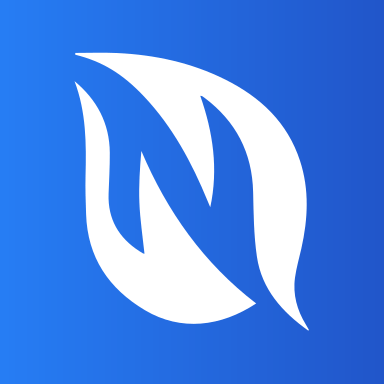
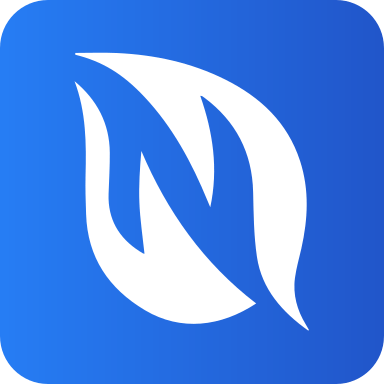
Update PWA installation button implementation

diff --git a/scripts/generate-icons.js b/scripts/generate-icons.js
@@ -1,4 +1,4 @@
-// scripts/generate-icons.js
+// scripts/generate-icons.js - WITH ROUNDED CORNERS
 const sharp = require('sharp');
 const fs = require('fs');
 const path = require('path');
@@ -34,23 +34,49 @@ const faviconSizes = [
 ];
 
 /**
- * Generate PNG icons from SVG source with colored background
+ * Create rounded corners mask as SVG overlay
  */
-async function generateIconsFromSVG(svgPath, sizes, suffix = '') {
+function createRoundedMask(size, borderRadius) {
+  return Buffer.from(`
+    <svg width="${size}" height="${size}" xmlns="http://www.w3.org/2000/svg">
+      <rect width="${size}" height="${size}" rx="${borderRadius}" ry="${borderRadius}" fill="white"/>
+    </svg>
+  `);
+}
+
+/**
+ * Generate PNG icons from SVG source with colored background and rounded corners
+ */
+async function generateIconsFromSVG(svgPath, sizes, suffix = '', withRoundedCorners = true) {
   for (const { size, name } of sizes) {
     const outputName = suffix ? name.replace('.png', `-${suffix}.png`) : name;
     const outputPath = path.join(outputDir, outputName);
     
-    // CRITICAL FIX: Use blue gradient background instead of transparent
-    await sharp(svgPath)
+    // Calculate border radius (12.5% of size for nice rounded corners)
+    const borderRadius = Math.floor(size * 0.125);
+    
+    // Create base image with blue background
+    let image = sharp(svgPath)
       .resize(size, size, {
         fit: 'contain',
         background: { r: 38, g: 125, b: 244, alpha: 1 } // Blue background #267DF4
-      })
+      });
+    
+    // Apply rounded corners if requested
+    if (withRoundedCorners) {
+      const roundedMask = createRoundedMask(size, borderRadius);
+      image = image.composite([{
+        input: roundedMask,
+        blend: 'dest-in'
+      }]);
+    }
+    
+    await image
       .png({ quality: 100, compressionLevel: 9 })
       .toFile(outputPath);
     
-    console.log(`   ✓ ${outputName} (${size}x${size}px)`);
+    const roundedText = withRoundedCorners ? ' with rounded corners' : '';
+    console.log(`   ✓ ${outputName} (${size}x${size}px${roundedText})`);
   }
 }
 
@@ -65,6 +91,10 @@ async function generateMaskableIcons(svgPath, sizes) {
     // Maskable icons need padding (safe zone)
     const logoSize = Math.floor(size * 0.6); // 60% of icon size for safe zone
     const padding = Math.floor((size - logoSize) / 2);
+    const borderRadius = Math.floor(size * 0.125); // Rounded corners
+    
+    // Create base with blue background and rounded corners
+    const roundedMask = createRoundedMask(size, borderRadius);
     
     await sharp({
       create: {
@@ -74,20 +104,26 @@ async function generateMaskableIcons(svgPath, sizes) {
         background: { r: 38, g: 125, b: 244, alpha: 1 }
       }
     })
-    .composite([{
-      input: await sharp(svgPath)
-        .resize(logoSize, logoSize, {
-          fit: 'contain',
-          background: { r: 0, g: 0, b: 0, alpha: 0 }
-        })
-        .toBuffer(),
-      top: padding,
-      left: padding
-    }])
+    .composite([
+      {
+        input: await sharp(svgPath)
+          .resize(logoSize, logoSize, {
+            fit: 'contain',
+            background: { r: 0, g: 0, b: 0, alpha: 0 }
+          })
+          .toBuffer(),
+        top: padding,
+        left: padding
+      },
+      {
+        input: roundedMask,
+        blend: 'dest-in'
+      }
+    ])
     .png({ quality: 100, compressionLevel: 9 })
     .toFile(outputPath);
     
-    console.log(`   ✓ ${outputName} (${size}x${size}px - maskable)`);
+    console.log(`   ✓ ${outputName} (${size}x${size}px - maskable with rounded corners)`);
   }
 }
 
@@ -95,7 +131,7 @@ async function generateMaskableIcons(svgPath, sizes) {
  * Generate favicon.ico (multi-size ICO file)
  */
 async function generateFavicon(svgPath) {
-  // Generate 32x32 as main favicon with transparent background
+  // Generate 32x32 as main favicon with transparent background (no rounded corners for favicon)
   const faviconPath = path.join(outputDir, 'favicon.ico');
   
   await sharp(svgPath)
@@ -122,7 +158,7 @@ function copySVGFavicon(svgPath) {
  * Main generation function
  */
 async function generateAllIcons() {
-  console.log('🎨 Génération des icônes PWA HD depuis SVG...\n');
+  console.log('🎨 Génération des icônes PWA HD depuis SVG avec coins arrondis...\n');
 
   // Verify source files exist
   if (!fs.existsSync(lightLogoSVG)) {
@@ -140,67 +176,89 @@ async function generateAllIcons() {
   }
 
   try {
-    // Generate PWA icons from light mode SVG (with blue background)
-    console.log('📱 Génération des icônes PWA (fond bleu):');
-    await generateIconsFromSVG(lightLogoSVG, pwaIconSizes);
+    // Generate PWA icons from light mode SVG (with blue background + rounded corners)
+    console.log('📱 Génération des icônes PWA (fond bleu + coins arrondis):');
+    await generateIconsFromSVG(lightLogoSVG, pwaIconSizes, '', true);
 
-    // Generate maskable icons for Android (with padding + blue background)
-    console.log('\n📱 Génération des icônes maskables (Android):');
+    // Generate maskable icons for Android (with padding + blue background + rounded corners)
+    console.log('\n📱 Génération des icônes maskables (Android + coins arrondis):');
     await generateMaskableIcons(lightLogoSVG, [
       { size: 192, name: 'icon-192x192.png' },
       { size: 512, name: 'icon-512x512.png' }
     ]);
 
-    // Generate Apple Touch Icons (using light mode with white background)
-    console.log('\n🍎 Génération des icônes Apple:');
+    // Generate Apple Touch Icons (using light mode with white background + rounded corners)
+    console.log('\n🍎 Génération des icônes Apple (coins arrondis):');
     for (const { size, name } of appleIconSizes) {
       const outputPath = path.join(outputDir, name);
+      const borderRadius = Math.floor(size * 0.125);
+      const roundedMask = createRoundedMask(size, borderRadius);
       
       await sharp(lightLogoSVG)
         .resize(size, size, {
           fit: 'contain',
           background: { r: 255, g: 255, b: 255, alpha: 1 } // White for Apple
         })
+        .composite([{
+          input: roundedMask,
+          blend: 'dest-in'
+        }])
         .png({ quality: 100, compressionLevel: 9 })
         .toFile(outputPath);
       
-      console.log(`   ✓ ${name} (${size}x${size}px)`);
+      console.log(`   ✓ ${name} (${size}x${size}px with rounded corners)`);
     }
 
-    // Generate Favicons (using light mode SVG - transparent)
-    console.log('\n🌐 Génération des favicons:');
-    await generateIconsFromSVG(lightLogoSVG, faviconSizes);
+    // Generate Favicons (using light mode SVG - transparent, NO rounded corners)
+    console.log('\n🌐 Génération des favicons (sans coins arrondis):');
+    await generateIconsFromSVG(lightLogoSVG, faviconSizes, '', false);
     await generateFavicon(lightLogoSVG);
     copySVGFavicon(lightLogoSVG);
 
-    // Generate screenshots for PWA manifest
-    console.log('\n📸 Génération des screenshots PWA:');
+    // Generate screenshots for PWA manifest (with rounded corners)
+    console.log('\n📸 Génération des screenshots PWA (coins arrondis):');
     
     // Screenshot 1 - Desktop
+    const wideSize = { width: 1280, height: 720 };
+    const wideBorderRadius = Math.floor(Math.min(wideSize.width, wideSize.height) * 0.02); // 2% radius
+    const wideRoundedMask = createRoundedMask(wideSize.width, wideBorderRadius);
+    
     await sharp(lightLogoSVG)
-      .resize(1280, 720, {
+      .resize(wideSize.width, wideSize.height, {
         fit: 'contain',
         background: { r: 38, g: 125, b: 244, alpha: 1 }
       })
+      .composite([{
+        input: wideRoundedMask,
+        blend: 'dest-in'
+      }])
       .png({ quality: 90 })
       .toFile(path.join(outputDir, 'screenshot-wide.png'));
-    console.log('   ✓ screenshot-wide.png (1280x720px)');
+    console.log('   ✓ screenshot-wide.png (1280x720px with rounded corners)');
 
     // Screenshot 2 - Mobile portrait
+    const narrowSize = { width: 750, height: 1334 };
+    const narrowBorderRadius = Math.floor(Math.min(narrowSize.width, narrowSize.height) * 0.03); // 3% radius
+    const narrowRoundedMask = createRoundedMask(narrowSize.width, narrowBorderRadius);
+    
     await sharp(lightLogoSVG)
-      .resize(750, 1334, {
+      .resize(narrowSize.width, narrowSize.height, {
         fit: 'contain',
         background: { r: 38, g: 125, b: 244, alpha: 1 }
       })
+      .composite([{
+        input: narrowRoundedMask,
+        blend: 'dest-in'
+      }])
       .png({ quality: 90 })
       .toFile(path.join(outputDir, 'screenshot-narrow.png'));
-    console.log('   ✓ screenshot-narrow.png (750x1334px)');
+    console.log('   ✓ screenshot-narrow.png (750x1334px with rounded corners)');
 
-    console.log('\n✅ Toutes les icônes HD ont été générées avec succès!');
+    console.log('\n✅ Toutes les icônes HD ont été générées avec succès avec coins arrondis!');
     console.log(`📂 Dossier de sortie: ${path.resolve(outputDir)}`);
     
     console.log('\n📝 Prochaines étapes:');
-    console.log('   1. Les icônes ont maintenant un fond bleu #267DF4');
+    console.log('   1. Les icônes ont maintenant un fond bleu #267DF4 avec coins arrondis');
     console.log('   2. Les icônes maskables ont été générées pour Android');
     console.log('   3. Rebuild l\'app: npm run build');
     console.log('   4. Testez l\'installation PWA sur mobile');

diff --git a/components/layout/TopBar.tsx b/components/layout/TopBar.tsx
@@ -5,7 +5,7 @@ import { useState, useEffect } from 'react'
 import Link from 'next/link'
 import Image from 'next/image'
 import { useSession, signOut } from 'next-auth/react'
-import { Bell, Search, Menu, MessageSquare, User, Settings, LogOut, X, CheckCircle, BellRing } from 'lucide-react'
+import { Bell, Search, Menu, MessageSquare, User, Settings, LogOut, X, CheckCircle } from 'lucide-react'
 import { Button } from '@/components/ui/button'
 import { Input } from '@/components/ui/input'
 import {
@@ -20,7 +20,6 @@ import { Avatar, AvatarFallback, AvatarImage } from '@/components/ui/avatar'
 import { AnimatePresence, motion } from 'framer-motion'
 import { Activity } from '@prisma/client'
 import { getRelativeTime } from '@/lib/utils'
-import PWAInstallButton from './PWAInstallButton'; 
 import { ThemeToggle } from '@/components/ThemeToggle'
 
 interface TopBarProps {
@@ -28,12 +27,6 @@ interface TopBarProps {
 }
 
 type ActivityWithUser = Activity & { user: { name: string | null; image: string | null }};
-
-const handleEnableNotifications = () => {
-    if (typeof window !== 'undefined' && (window as any).enablePushNotifications) {
-        (window as any).enablePushNotifications();
-    }
-};
 
 export function TopBar({ onMenuClick }: TopBarProps) {
   const { data: session } = useSession();
@@ -77,7 +70,7 @@ export function TopBar({ onMenuClick }: TopBarProps) {
             <Search className="w-5 h-5" />
         </Button>
         <Link href="/chat"><Button variant="ghost" size="icon"><MessageSquare className="w-5 h-5" /></Button></Link>
-        <PWAInstallButton />
+        <ThemeToggle />
         <DropdownMenu onOpenChange={(open) => !open && setShowNotificationDot(false)}>
           <DropdownMenuTrigger asChild>
             <Button variant="ghost" size="icon" className="relative">
@@ -110,43 +103,31 @@ export function TopBar({ onMenuClick }: TopBarProps) {
                          <Avatar className="h-9 w-9">
                             <AvatarImage src={session.user.image || ''} alt={session.user.name || 'Utilisateur'} />
                             <AvatarFallback>{session.user.name ? session.user.name.charAt(0).toUpperCase() : 'U'}</AvatarFallback>
-                         </Avatar>
+                        </Avatar>
                     </div>
                 </DropdownMenuTrigger>
-                <DropdownMenuContent className="w-64" align="end">
-                    <DropdownMenuLabel className="font-normal">
-                        <div className="flex flex-col space-y-1">
-                            <p className="text-sm font-medium leading-none">{session.user.name || 'Utilisateur'}</p>
-                            <p className="text-xs leading-none text-muted-foreground">
-                                {session.user.email}
-                            </p>
+                <DropdownMenuContent align="end" className="w-48">
+                    <DropdownMenuLabel>
+                        <div className="flex flex-col">
+                            <span className="text-sm font-medium">{session.user.name || 'Utilisateur'}</span>
+                            <span className="text-xs text-muted-foreground">{session.user.email}</span>
                         </div>
                     </DropdownMenuLabel>
                     <DropdownMenuSeparator />
                     <DropdownMenuItem asChild>
-                        <Link href="/profile" className="flex items-center gap-2">
+                        <Link href="/settings/profile" className="flex items-center gap-2 cursor-pointer">
                             <User className="w-4 h-4" />
-                            Mon profil
+                            Profil
                         </Link>
                     </DropdownMenuItem>
                     <DropdownMenuItem asChild>
-                        <Link href="/settings" className="flex items-center gap-2">
+                        <Link href="/settings" className="flex items-center gap-2 cursor-pointer">
                             <Settings className="w-4 h-4" />
                             Paramètres
                         </Link>
                     </DropdownMenuItem>
                     <DropdownMenuSeparator />
-                    {/* Theme Toggle Integration */}
-                    <div className="p-1">
-                        <ThemeToggle />
-                    </div>
-                    <DropdownMenuSeparator />
-                    <DropdownMenuItem onClick={handleEnableNotifications} className="flex items-center gap-2">
-                        <BellRing className="w-4 h-4" />
-                        Activer les notifications
-                    </DropdownMenuItem>
-                    <DropdownMenuSeparator />
-                    <DropdownMenuItem onClick={() => signOut()} className="flex items-center gap-2 text-red-600 dark:text-red-400">
+                    <DropdownMenuItem onClick={() => signOut({ callbackUrl: '/' })} className="flex items-center gap-2 cursor-pointer text-red-600">
                         <LogOut className="w-4 h-4" />
                         Se déconnecter
                     </DropdownMenuItem>

diff --git a/app/layout.tsx b/app/layout.tsx
@@ -1,8 +1,9 @@
-// app/layout.tsx - ENHANCED WITH SVG FAVICON
+// app/layout.tsx - ENHANCED WITH SVG FAVICON + PWA INSTALLER
 import './globals.css'
 import { Poppins } from 'next/font/google'
 import { Providers } from '@/components/providers/Providers'
 import SplashScreen from '@/components/SplashScreen'
+import PWAInstaller from '@/components/PWAInstaller'
 import { Metadata, Viewport } from 'next'
 
 const poppins = Poppins({ 
@@ -83,15 +84,18 @@ export default function RootLayout({
                 const theme = localStorage.getItem('enarva-theme') || 'light';
                 const systemTheme = window.matchMedia('(prefers-color-scheme: dark)').matches ? 'dark' : 'light';
                 const effectiveTheme = theme === 'system' ? systemTheme : theme;
-                document.documentElement.classList.add(effectiveTheme);
+                if (effectiveTheme === 'dark') {
+                  document.documentElement.classList.add('dark');
+                }
               } catch (e) {}
             `,
           }}
         />
       </head>
-      <body className="antialiased bg-background font-poppins transition-colors duration-300" suppressHydrationWarning>
-        <SplashScreen />
+      <body className={`${poppins.className} antialiased`}>
         <Providers>
+          <SplashScreen />
+          <PWAInstaller />
           {children}
         </Providers>
       </body>
